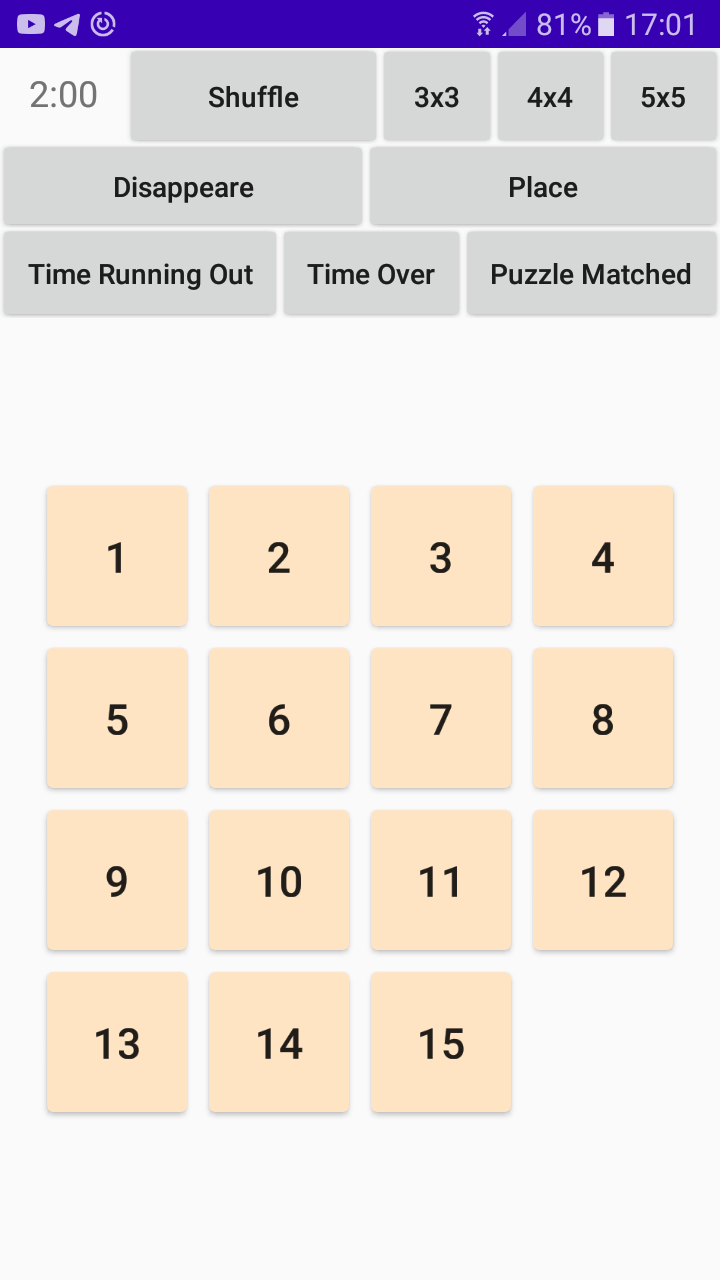
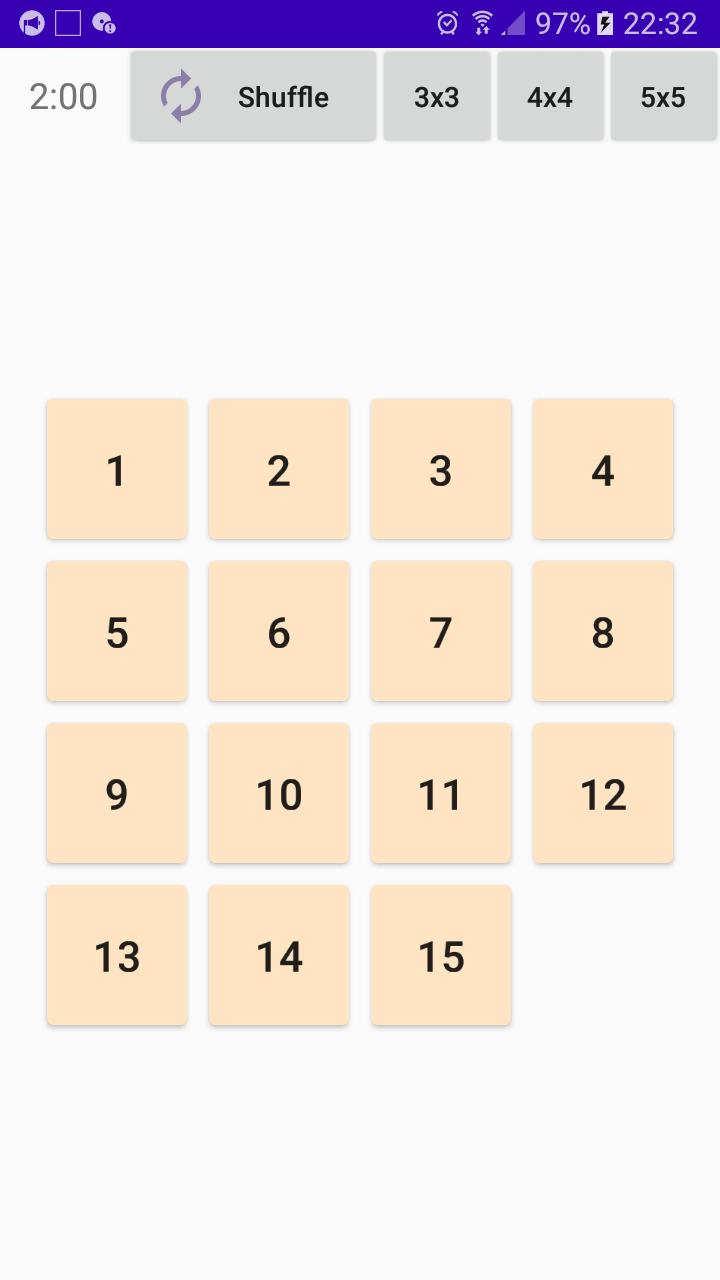
Hide test animations buttons, show they on long click

diff --git a/app/src/main/java/com/example/k15puzzle/MainActivity.kt b/app/src/main/java/com/example/k15puzzle/MainActivity.kt
@@ -68,6 +68,7 @@ class MainActivity : AppCompatActivity() {
 	var inBack: TimeInterpolator = PathInterpolator(0.6f, -0.28f, 0.735f, 0.045f)
 	var outBack: TimeInterpolator = PathInterpolator(0.175f, 0.885f, 0.32f, 1.275f)
 	var outExpo: TimeInterpolator = PathInterpolator(0.19f, 1f, 0.22f, 1f)
+	var panelDebugVisible = false
 
 	override fun onCreate(savedInstanceState: Bundle?)
 	{
@@ -79,9 +80,11 @@ class MainActivity : AppCompatActivity() {
 		panelClient.viewTreeObserver.addOnGlobalLayoutListener { panelClientResize() }
 
 //		LinearGradient linearGradient = new LinearGradient();
-		Log.d("onCreate","Thread.currentThread()=${Thread.currentThread()}")
+		Log.d("onCreate", "Thread.currentThread()=${Thread.currentThread()}")
 
 		base = 4
+
+		panelClient.setOnLongClickListener()  { panelClientOnLongClick(it) }
 	}
 
 	private var mode: Mode? = null
@@ -251,7 +254,7 @@ class MainActivity : AppCompatActivity() {
 
 
 
-	fun animateMoveTile(tile: Button, moveAniDuration: Float, waitAnimationEnd: Boolean )
+	fun animateMoveTile(tile: Button, moveAniDuration: Float, waitAnimationEnd: Boolean)
 			: Deferred<Unit>
 //			 = GlobalScope.async()
 	{
@@ -338,8 +341,8 @@ class MainActivity : AppCompatActivity() {
 
 	fun buttonShuffleOnClick(sender: View?) = GlobalScope.async() {
 
-		Log.d("Shuffle","Thread.currentThread()=${Thread.currentThread()}")
-		Log.d("Shuffle","Looper.getMainLooper().thread=${Looper.getMainLooper().thread}")
+		Log.d("Shuffle", "Thread.currentThread()=${Thread.currentThread()}")
+		Log.d("Shuffle", "Looper.getMainLooper().thread=${Looper.getMainLooper().thread}")
 
 		runOnUiThread {
 			animateNormalizeTilesColor()
@@ -350,7 +353,7 @@ class MainActivity : AppCompatActivity() {
 
 		val timeShuffleStart = System.currentTimeMillis()
 		lastLogTime = timeShuffleStart
-		Log.d("Shuffle","start. moveCount=$moveCount")
+		Log.d("Shuffle", "start. moveCount=$moveCount")
 
 		for (i in 1..moveCount)
 		{
@@ -414,8 +417,7 @@ class MainActivity : AppCompatActivity() {
 		if (mode == Mode.Game)
 		{
 			handler.postDelayed(timerTimeRunnable, 1000)
-			Log.d("Timer",
-				"timerTime.postDelayed(timerTimeRunnable, 1000) in timerTimeTimer"	)
+			Log.d("Timer", "timerTime.postDelayed(timerTimeRunnable, 1000) in timerTimeTimer")
 		}
 	}
 
@@ -688,6 +690,16 @@ class MainActivity : AppCompatActivity() {
 		animatePuzzleMatched()
 	}
 
+	fun panelClientOnLongClick(sender: View): Boolean
+	{
+		panelDebugVisible = ! panelDebugVisible
+		if (panelDebugVisible)
+			panelTestAnimations.visibility = View.VISIBLE
+		else
+			panelTestAnimations.visibility = View.GONE
+
+		return true
+	}
 
 //---------------------------  Realization of Property Animation   -----------------------------
 
@@ -696,7 +708,7 @@ class MainActivity : AppCompatActivity() {
 		target: View, propertyName: String,
 		value: Float, duration_ms: Long, delay_ms: Long,
 		interpolator: TimeInterpolator = linear
-		/*, boolean deleteWhenStopped, boolean waitAnimationEnd*/	): ObjectAnimator
+		/*, boolean deleteWhenStopped, boolean waitAnimationEnd*/): ObjectAnimator
 	{
 		val objectAnimator = ObjectAnimator.ofFloat(target, propertyName, value)
 		objectAnimator.duration = duration_ms
